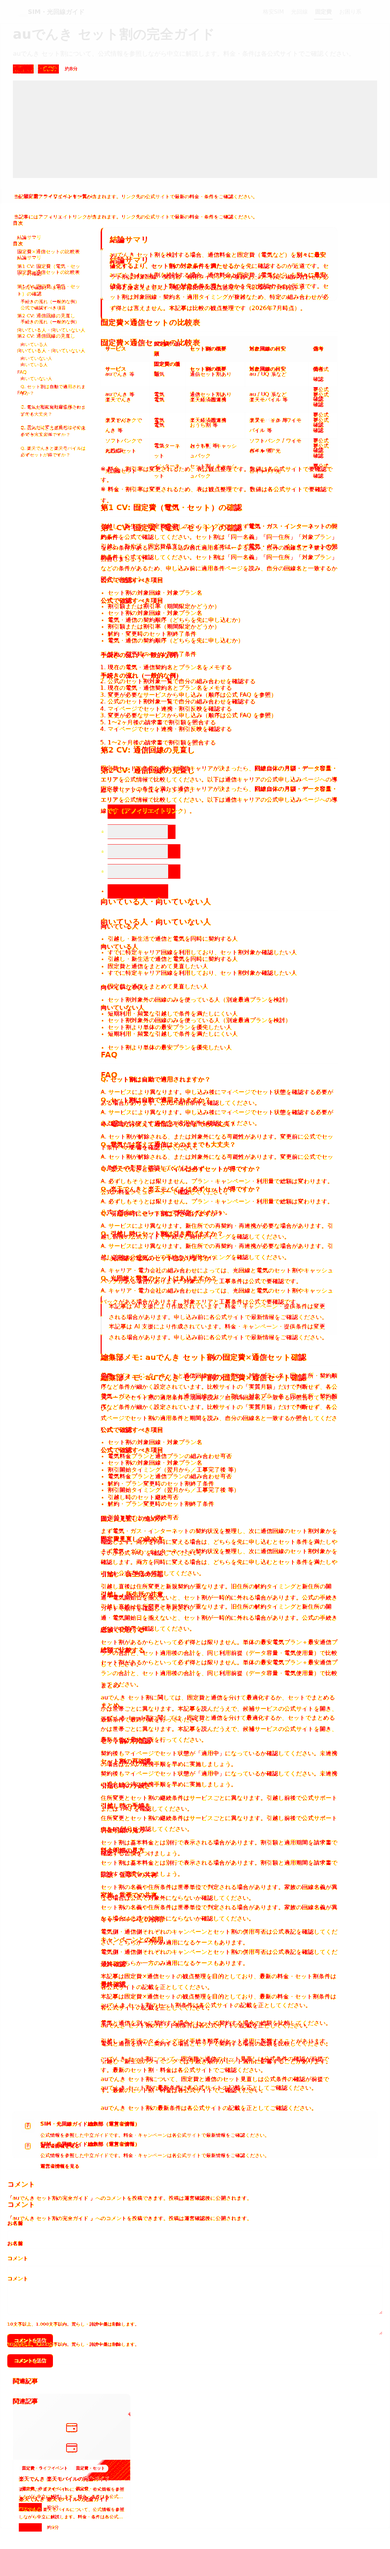
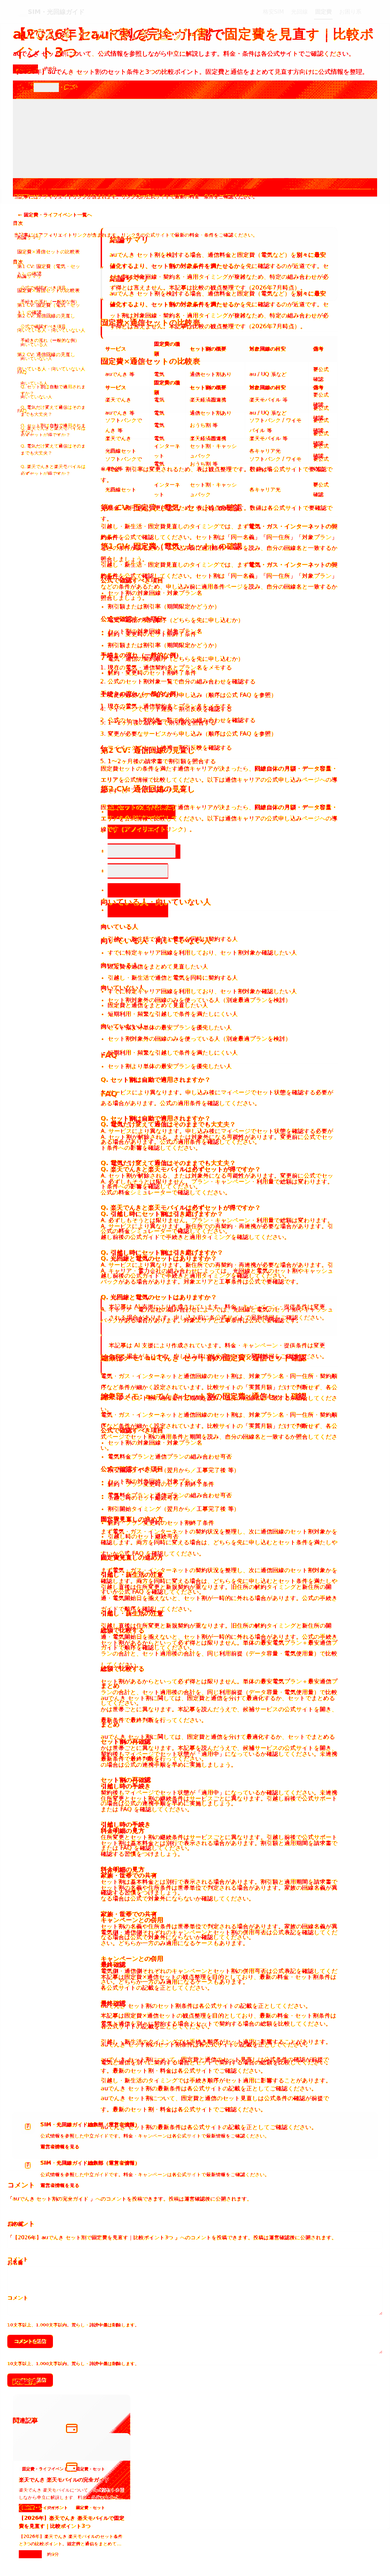
fix(site): preserve affiliate CTAs when repositioning after tables (#98)
* fix(site): preserve affiliate CTAs when repositioning after tables

PR #92 rehype-cta-placement removed CTA blocks before insert and matched
table-wrap instead of table-scroll, dropping affiliate links from 28 articles.
Only move CTAs when a valid insert point exists; insert after table-scroll
wrappers at the parent level and adjust indices after removal.

* chore(ci): upload visual diff artifacts for PR comment

* chore: fix Prettier table alignment in cta-ab-design.md

* test: drop rehype-cta-placement unit test (CI runs before site npm ci)

validate-dist in CI covers affiliate CTA rendering end-to-end.

---------

Changed region(s): [[0.0, 0.0, 0.9688, 0.9973], [0.8125, 0.2805, 0.8438, 0.3116]]

diff --git a/site/src/plugins/rehype-cta-placement.ts b/site/src/plugins/rehype-cta-placement.ts
@@ -61,31 +61,89 @@ function extractCommentPlacement(tree: Root): CtaPlacement | null {
   return placement;
 }
 
-function removeCtaBlocks(tree: Root): Element[] {
-  const blocks: Element[] = [];
+function collectCtaBlocks(
+  tree: Root,
+): Array<{ node: Element; parent: Element | Root; index: number }> {
+  const blocks: Array<{
+    node: Element;
+    parent: Element | Root;
+    index: number;
+  }> = [];
   visit(tree, "element", (node, index, parent) => {
     if (!isCtaBlock(node) || !parent || typeof index !== "number") {
       return;
     }
-    blocks.push(node);
-    parent.children.splice(index, 1);
-    return index;
+    blocks.push({ node, parent, index });
   });
   return blocks;
+}
+
+function removeCollectedCtaBlocks(
+  blocks: Array<{ node: Element; parent: Element | Root; index: number }>,
+): Element[] {
+  for (const block of [...blocks].reverse()) {
+    block.parent.children.splice(block.index, 1);
+  }
+  return blocks.map((block) => block.node);
+}
+
+function adjustInsertIndexAfterRemovals(
+  target: { parent: Element | Root; index: number },
+  removed: Array<{ parent: Element | Root; index: number }>,
+): void {
+  for (const block of removed) {
+    if (block.parent !== target.parent || block.index >= target.index) {
+      continue;
+    }
+    target.index -= 1;
+  }
+}
+
+function isTableInsideScrollWrapper(
+  node: Element,
+  parent: Element | Root,
+): boolean {
+  return (
+    node.tagName === "table" &&
+    parent.type === "element" &&
+    parent.tagName === "div" &&
+    hasClass(parent, "table-scroll")
+  );
 }
 
 function findAfterTableInsertPoint(
   tree: Root,
 ): { parent: Element | Root; index: number } | null {
   let target: { parent: Element | Root; index: number } | null = null;
+
   visit(tree, "element", (node, index, parent) => {
     if (target || !parent || typeof index !== "number") {
       return;
     }
-    if (node.tagName === "div" && hasClass(node, "table-wrap")) {
+    if (node.tagName === "div" && hasClass(node, "table-scroll")) {
       target = { parent, index: index + 1 };
     }
   });
+
+  if (target) {
+    return target;
+  }
+
+  visit(tree, "element", (node, index, parent) => {
+    if (
+      target ||
+      !parent ||
+      typeof index !== "number" ||
+      node.tagName !== "table"
+    ) {
+      return;
+    }
+    if (isTableInsideScrollWrapper(node, parent)) {
+      return;
+    }
+    target = { parent, index: index + 1 };
+  });
+
   return target;
 }
 
@@ -103,7 +161,7 @@ function findBeforeConclusionInsertPoint(
       return;
     }
     const text = headingText(node);
-    if (/まとめ|結論|FAQ|よくある質問/.test(text)) {
+    if (/^(まとめ|FAQ|よくある質問)$/.test(text)) {
       target = { parent, index };
     }
   });
@@ -116,9 +174,9 @@ export const rehypeCtaPlacement: Plugin<[], Root> =
       const slug = resolveSlugFromFile(file);
       const commentPlacement = extractCommentPlacement(tree);
       const placement = resolveCtaPlacement(slug, commentPlacement);
-      const ctaBlocks = removeCtaBlocks(tree);
+      const locatedBlocks = collectCtaBlocks(tree);
 
-      if (ctaBlocks.length === 0) {
+      if (locatedBlocks.length === 0) {
         return;
       }
 
@@ -131,6 +189,8 @@ export const rehypeCtaPlacement: Plugin<[], Root> =
         return;
       }
 
+      adjustInsertIndexAfterRemovals(target, locatedBlocks);
+      const ctaBlocks = removeCollectedCtaBlocks(locatedBlocks);
       target.parent.children.splice(target.index, 0, ...ctaBlocks);
     };
   };

diff --git a/docs/cta-ab-design.md b/docs/cta-ab-design.md
@@ -4,10 +4,10 @@
 
 ## バリアント
 
-| ID              | `CtaPlacement`      | 挙動                                                                     |
-| --------------- | ------------------- | ------------------------------------------------------------------------ |
-| A（デフォルト） | `after-table`       | 比較表（最初の `table-wrap`）直後に CTA ブロックをまとめて配置           |
-| B               | `before-conclusion` | 「まとめ」「結論」「FAQ」「よくある質問」見出し直前に CTA をまとめて配置 |
+| ID              | `CtaPlacement`      | 挙動                                                                      |
+| --------------- | ------------------- | ------------------------------------------------------------------------- |
+| A（デフォルト） | `after-table`       | 比較表（最初の `table-scroll` ラッパー）直後に CTA ブロックをまとめて配置 |
+| B               | `before-conclusion` | 「まとめ」「結論」「FAQ」「よくある質問」見出し直前に CTA をまとめて配置  |
 
 ## 設定
 
